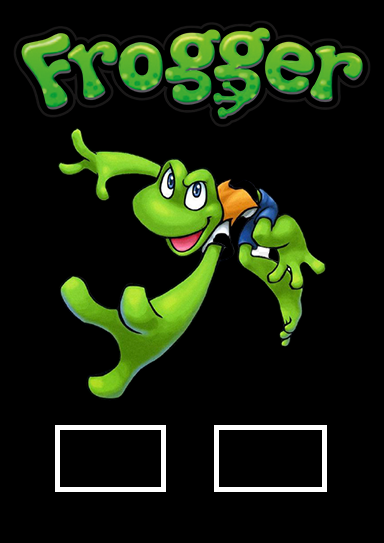
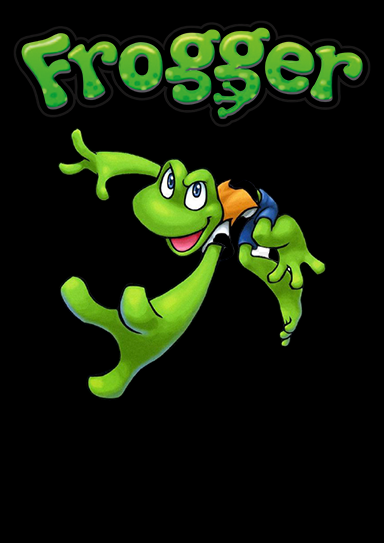
Add Choose Level Class and Increase Button for 10 Levels

Changed region(s): [[0.5312, 0.7661, 0.875, 0.9134], [0.125, 0.7661, 0.4375, 0.9134]]

diff --git a/src/main/java/frogger/Button.java b/src/main/java/frogger/Button.java
@@ -9,19 +9,23 @@ public class Button extends Actor{
 
     }
 
-    public Button (String name, int x) {
-        setImage(new Image("file:src/main/resources/Button/" + name + "Button.png", 150, 150, true, true));
+    public Button (String name, int x, int y) {
+        setImage(new Image("file:src/main/resources/Button/" + name + ".png", 150, 100, true, true));
         setX(x);
-        setY(643);
-        if (name == "Start") {
-            setOnMouseClicked(event -> {
-                Controller.getInstance().activate("level1");
-            });
-        }
-        else if (name == "Info") {
-            setOnMouseClicked(event -> {
-                Controller.getInstance().activate("info");
-            });
+        setY(y);
+        switch (name) {
+            case "Start":
+                setOnMouseClicked(event -> { Controller.getInstance().activate("level1"); });
+                break;
+            case "Info":
+                setOnMouseClicked(event -> { Controller.getInstance().activate("info"); });
+                break;
+            case "Level":
+                setOnMouseClicked(event -> { Controller.getInstance().activate("level"); });
+                break;
+            default:
+                setOnMouseClicked(event -> { Controller.getInstance().activate(name); });
+                break;
         }
     }
 }

diff --git a/src/main/java/frogger/Main.java b/src/main/java/frogger/Main.java
@@ -13,6 +13,7 @@ public class Main extends Application {
 	private Level5 level5;
 	private Start start;
 	private Info info;
+	private Choose choose;
 	private Controller controller;
 
 	public static void main(String[] args) {
@@ -24,25 +25,27 @@ public class Main extends Application {
 
 	    start = new Start();
 	    info = new Info();
+	    choose = new Choose();
 	    Scene scene  = new Scene(start,600,800);
 		controller = Controller.getInstance();
 		controller.setScene(scene);
 		controller.addScreen("start",start);
 		controller.addScreen("info",info);
+		controller.addScreen("level",choose);
 
 		primaryStage.setScene(scene);
 		primaryStage.show();
 
 		level1 = new Level1();
-		controller.addScreen("level1",level1);
+		controller.addScreen("Level1",level1);
 		level2 = new Level2();
-		controller.addScreen("level2",level2);
+		controller.addScreen("Level2",level2);
 		level3 = new Level3();
-		controller.addScreen("level3",level3);
+		controller.addScreen("Level3",level3);
 		level4 = new Level4();
-		controller.addScreen("level4",level4);
+		controller.addScreen("Level4",level4);
 		level5 = new Level5();
-		controller.addScreen("level5",level5);
+		controller.addScreen("Level5",level5);
 
 	}
 }

diff --git a/src/main/java/frogger/Choose.java b/src/main/java/frogger/Choose.java
@@ -1,0 +1,26 @@
+package frogger;
+
+import javafx.scene.input.KeyCode;
+
+public class Choose extends World{
+
+    private final int[] row = {125,125,250,250,375,375,500,500,625,625};
+    private int col;
+    @Override
+    public void act (long now) { }
+
+    public Choose () {
+        BackgroundImage background = new BackgroundImage(-2);
+        add(background);
+        for (int i = 0; i < 10; i++) {
+            if (i % 2 == 0) {
+                col = 100;
+            }
+            else {
+                col = 350;
+            }
+            add(new Button("Level"+(i+1),col,row[i]));
+        }
+        setOnKeyPressed(event -> {if (event.getCode() == KeyCode.SPACE) {Controller.getInstance().activate("start");}});
+    }
+}

diff --git a/src/main/java/frogger/Start.java b/src/main/java/frogger/Start.java
@@ -2,16 +2,16 @@ package frogger;
 
 public class Start extends World {
 
+    private final int YPOS = 643;
     @Override
     public void act(long now) {}
 
     public Start() {
         BackgroundImage background = new BackgroundImage(0);
-        this.add(background);
-        Button start = new Button("Start", 100);
-        Button info = new Button("Info", 350);
-        this.add(start);
-        this.add(info);
+        add(background);
+        add(new Button("Start", 50, YPOS));
+        add(new Button("Info", 225, YPOS));
+        add(new Button("Level", 400,YPOS));
     }
 
 }

diff --git a/src/main/java/frogger/BackgroundImage.java b/src/main/java/frogger/BackgroundImage.java
@@ -16,8 +16,11 @@ public class BackgroundImage extends Actor{
 			case 0:
 				imageLink = "file:src/main/resources/Background/Start.png";
 				break;
-			case 9:
+			case -1:
 				imageLink = "file:src/main/resources/Background/Info.png";
+				break;
+			case -2:
+				imageLink = "file:src/main/resources/Background/Choose.png";
 				break;
 			default:
 				imageLink = "file:src/main/resources/Background/Background" + i + ".png";

diff --git a/src/main/java/frogger/Info.java b/src/main/java/frogger/Info.java
@@ -8,8 +8,8 @@ public class Info extends World{
     public void act (long now) { }
 
     public Info () {
-        BackgroundImage background = new BackgroundImage(9);
-        this.add(background);
+        BackgroundImage background = new BackgroundImage(-1);
+        add(background);
         setOnKeyPressed(event -> {if (event.getCode() == KeyCode.SPACE) {Controller.getInstance().activate("start");}});
     }
 }
